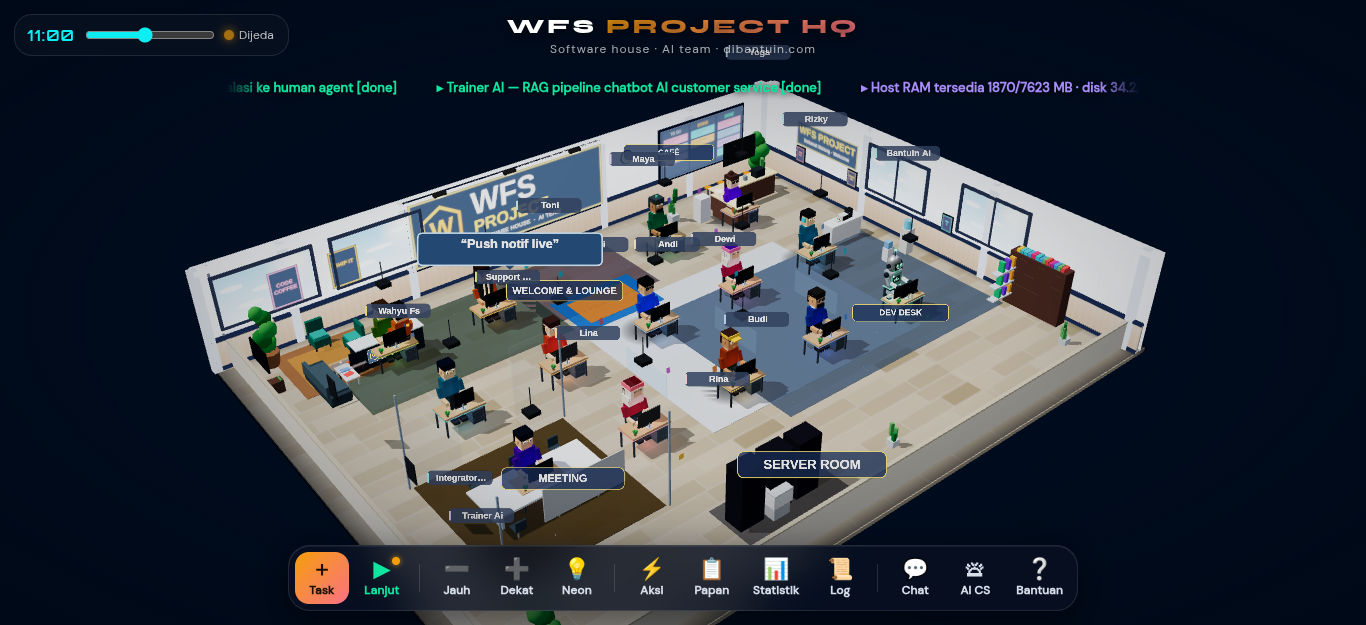
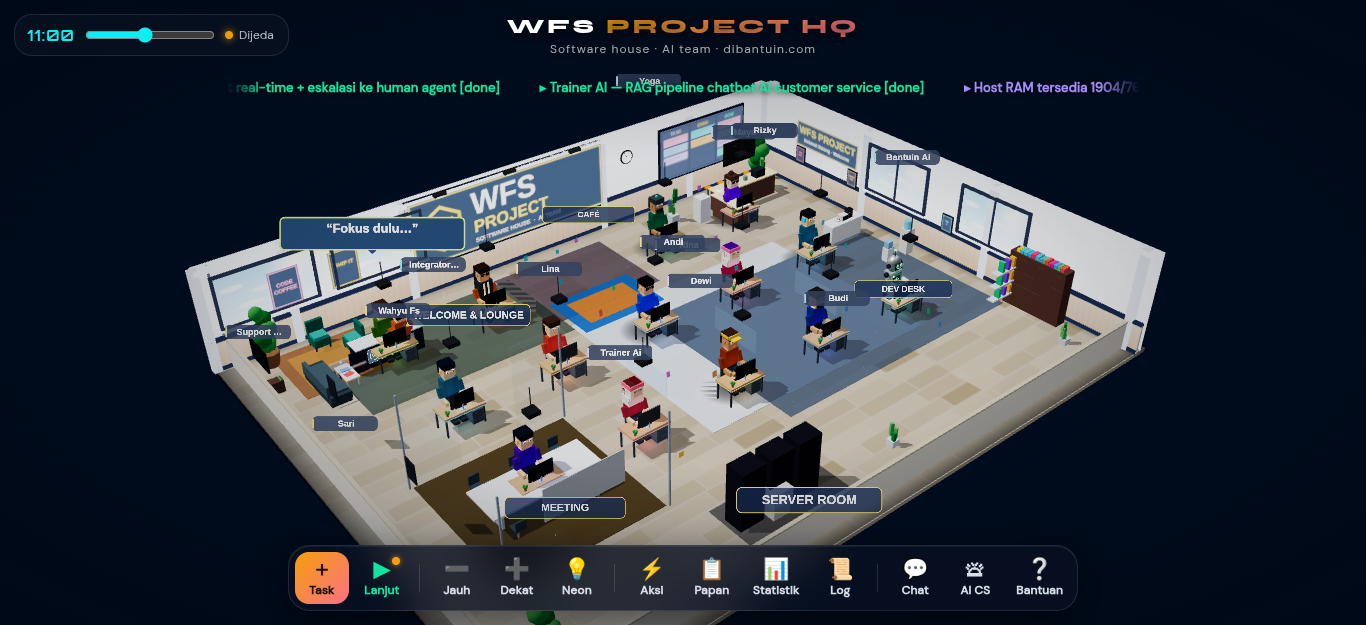
anti-overlap #9: sweep pad 30px utk adjacency Lina×Yoga

diff --git a/src/scene/OfficeScene.js b/src/scene/OfficeScene.js
@@ -1817,8 +1817,8 @@ function animate(){
           let minY=-Infinity;
           for(let j=0;j<i;j++){
             const pj=byY[j];
-            if(Math.abs(pi.x+pi.offX-(pj.x+pj.offX))>=((pi.sw||pi.zw||0)+(pj.sw||pj.zw||0))/2+22)continue;
-            const need=(pj.y+pj.offY)+((pi.sh||pi.zh||0)+(pj.sh||pj.zh||0))/2+20;
+            if(Math.abs(pi.x+pi.offX-(pj.x+pj.offX))>=((pi.sw||pi.zw||0)+(pj.sw||pj.zw||0))/2+30)continue;
+            const need=(pj.y+pj.offY)+((pi.sh||pi.zh||0)+(pj.sh||pj.zh||0))/2+24;
             if(need>minY)minY=need;
           }
           if(minY>-Infinity&&(pi.y+pi.offY)<minY)pi.offY=minY-(pi.y);
@@ -1837,7 +1837,7 @@ function animate(){
     // konversi offset piksel ke satuan dunia (~ jarak/tinggi layar), cap supaya label tidak melayang jauh
     const dist=camera.position.distanceTo(tgt), worldPerPx=2*dist*Math.tan(camera.fov*Math.PI/360)/container.clientHeight;
     pts.forEach(p=>{
-      const dy=Math.min(24,p.offY*worldPerPx*1.2), dx=Math.max(-5,Math.min(5,p.offX*worldPerPx));
+      const dy=Math.min(24,p.offY*worldPerPx*1.2), dx=Math.max(-6,Math.min(6,p.offX*worldPerPx));
       if(p.zone){if(p.zt){const dyz=Math.max(-25,Math.min(25,p.offY*worldPerPx*1.2)), dxz=Math.max(-6,Math.min(6,p.offX*worldPerPx)); p.zt.position.y=p.baseY+dyz; p.zt.position.x=p.baseX+dxz; const zu=p.zt.userData; zu.antiY=(zu.antiY||0)+dyz; zu.antiX=(zu.antiX||0)+dxz;} else if(p.bub){p.bub.position.y=p.baseY+dy*0.4; p.bub.position.x=p.baseX+dx*0.5;} return;} // zona/bubble
       p.a.label.position.y=p.baseY+dy; p.a.label.position.x=p.baseX+dx;
       p.a.label.userData.antiY=dy; p.a.label.userData.antiX=dx; // utk base frame berikutnya

diff --git a/DEV_LOG.md b/DEV_LOG.md
@@ -371,3 +371,7 @@
 - Backlog "tooltip menutup ujung subtitle header": elemen tersebut adalah .toast notifikasi (top 86px) yang menabrak ticker (top 76px, tinggi 24px) dan subtitle header. Toast digeser ke top 112px (desktop) / 88px (mobile ≤900px) — di bawah ticker, lane HUD atas bersih.
 - Bukti: build OK (1.6s), vitest 9/9, deploy ~/wfs-hq; e2e CDP 0 console error, agents 14, frames normal.
 - Sisa backlog: Lina×Yoga adjacency tipis (cluster lounge); verifikasi audio di browser asli.
+## 2026-10-18 05:50 WIB — anti-overlap #9: sweep breathing room diperbesar utk Lina×Yoga
+- Backlog "adjacency tipis Lina×Yoga (cluster lounge)": sweep greedy pad horizontal 22→30px & vertikal 20→24px, cap offset dx agent label ±5→±6 — dorongan horizontal lebih lega sebelum fallback vertikal.
+- Bukti: build OK (1.2s), vitest 9/9, deploy ~/wfs-hq; e2e CDP 0 console error, agents 14, frames normal; shot ck.png 512KB (scene hidup). Vision audit timeout (infra, 4x) — verifikasi visual lanjut run berikutnya.
+- Sisa backlog: verifikasi audio & label di browser asli; vision audit adjacency.
